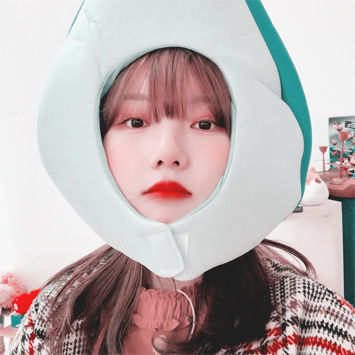
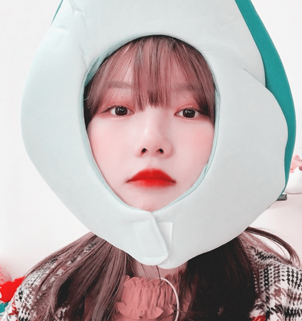
[+] add images, rectangle tag, navi bar

diff --git a/avocado template/src/styles/style.css b/avocado template/src/styles/style.css
@@ -5,8 +5,31 @@
         font-family: Helvetica;
         src: url(../fonts/helvetica/Helvetica.otf);
     }
-    .main{
+
+.main{
     margin: 188px 0 0 100px;
+}
+.rectangle-colour{
+    position: relative;
+    margin-bottom: 12px;
+    width: 108px;
+    top:-96px;
+    left: -50px;
+    z-index: 1;
+}
+
+.colour_grey{
+    background-color: #d6dada;
+}
+.colour_green{
+    background-color: #269595;
+}
+.rectangle-colour_text{
+    bottom: -12px;
+    left: 9px;
+    font-size: 10px;
+    color: #ffffff;
+    font-family: Helvetica, serif;
 }
 .photo-bar{
     width: 300px;
@@ -15,15 +38,16 @@
     position: relative;
     filter: drop-shadow(0px 12px 12px rgba(0,0,0,0.12));
     border: 19.4px solid #ffffff;
+    z-index: 2;
 }
 .navi-bar{
     position: absolute;
     list-style: none;
     font-family: Helvetica, serif;
     font-size: 12px;
-    letter-spacing: 0px;
     line-height: 28px;
     top: -42px;
+
 }
 .navi-bar_item{
     display: inline-block;
@@ -38,6 +62,4 @@
 }
 .photo-bar_photo{
     width: 300px;
-    height: 320px;
-    background-color: #88b5d5;
 }

diff --git a/avocado template/src/templates/avocado-template.html b/avocado template/src/templates/avocado-template.html
@@ -7,6 +7,7 @@
 </head>
 <body>
 <div class="main">
+
 <div class="photo-bar">
     <ul class="navi-bar">
         <li class="navi-bar_item">
@@ -22,9 +23,15 @@
             <a class="item_link" href="">data</a>
         </li>
     </ul>
-    <div class="photo-bar_photo"></div>
+        <img src="../images/Capa%204.png" class="photo-bar_photo" alt="This is your large photo">
 </div>
+    <div class="rectangle-colour">
+        <p class="rectangle-colour_text colour_grey">#d6dada</p>
+    </div>
 
+    <div class="rectangle-colour">
+        <p class="rectangle-colour_text colour_green">#269595</p>
+    </div>
 
 
 </div>
